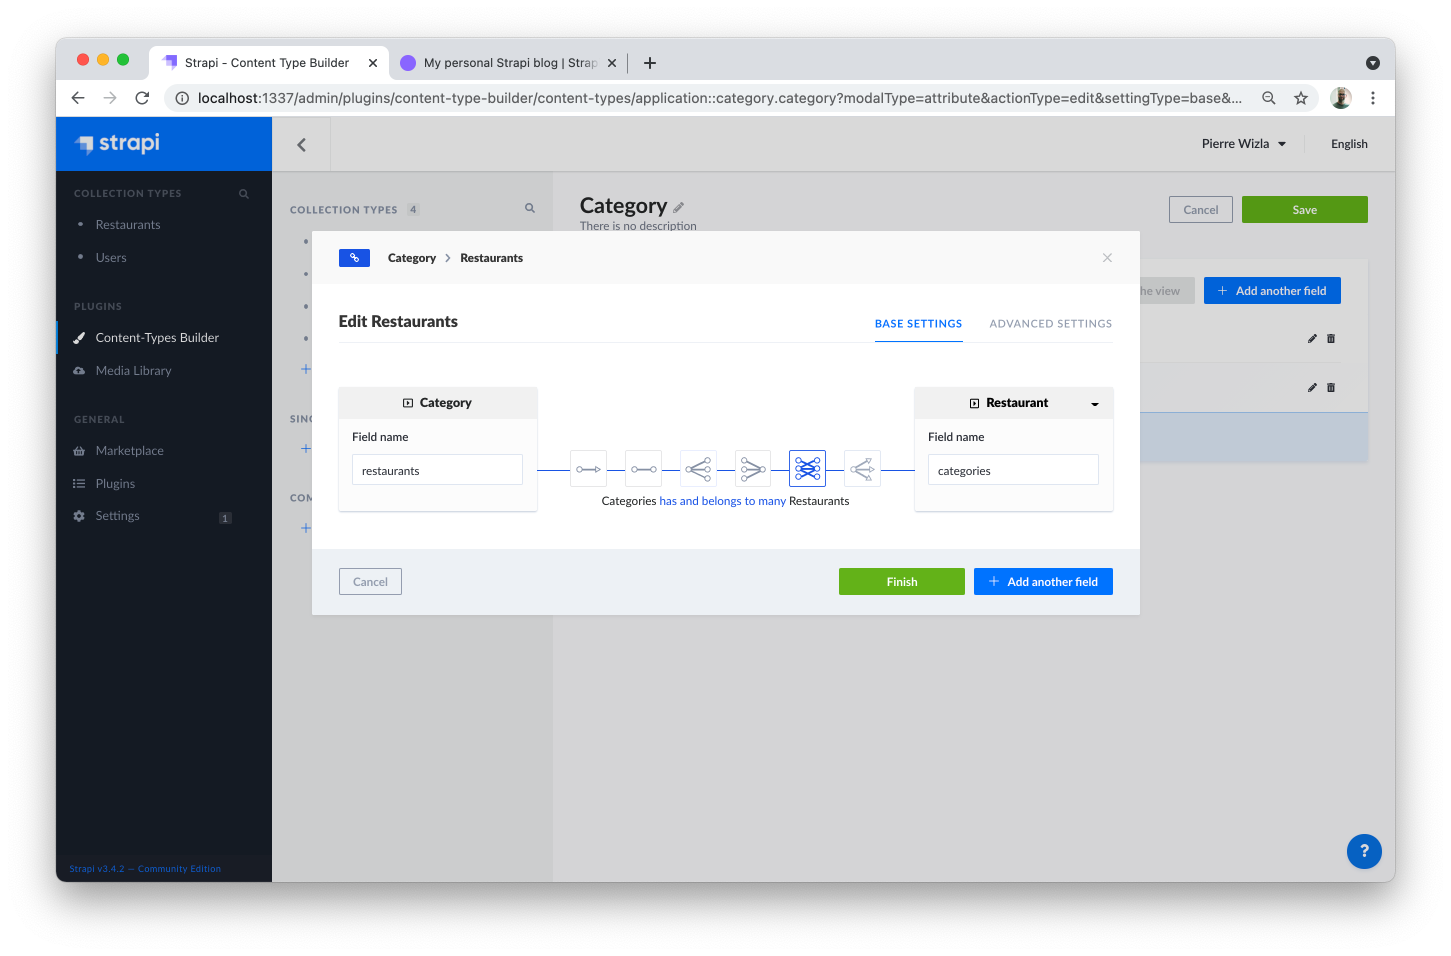
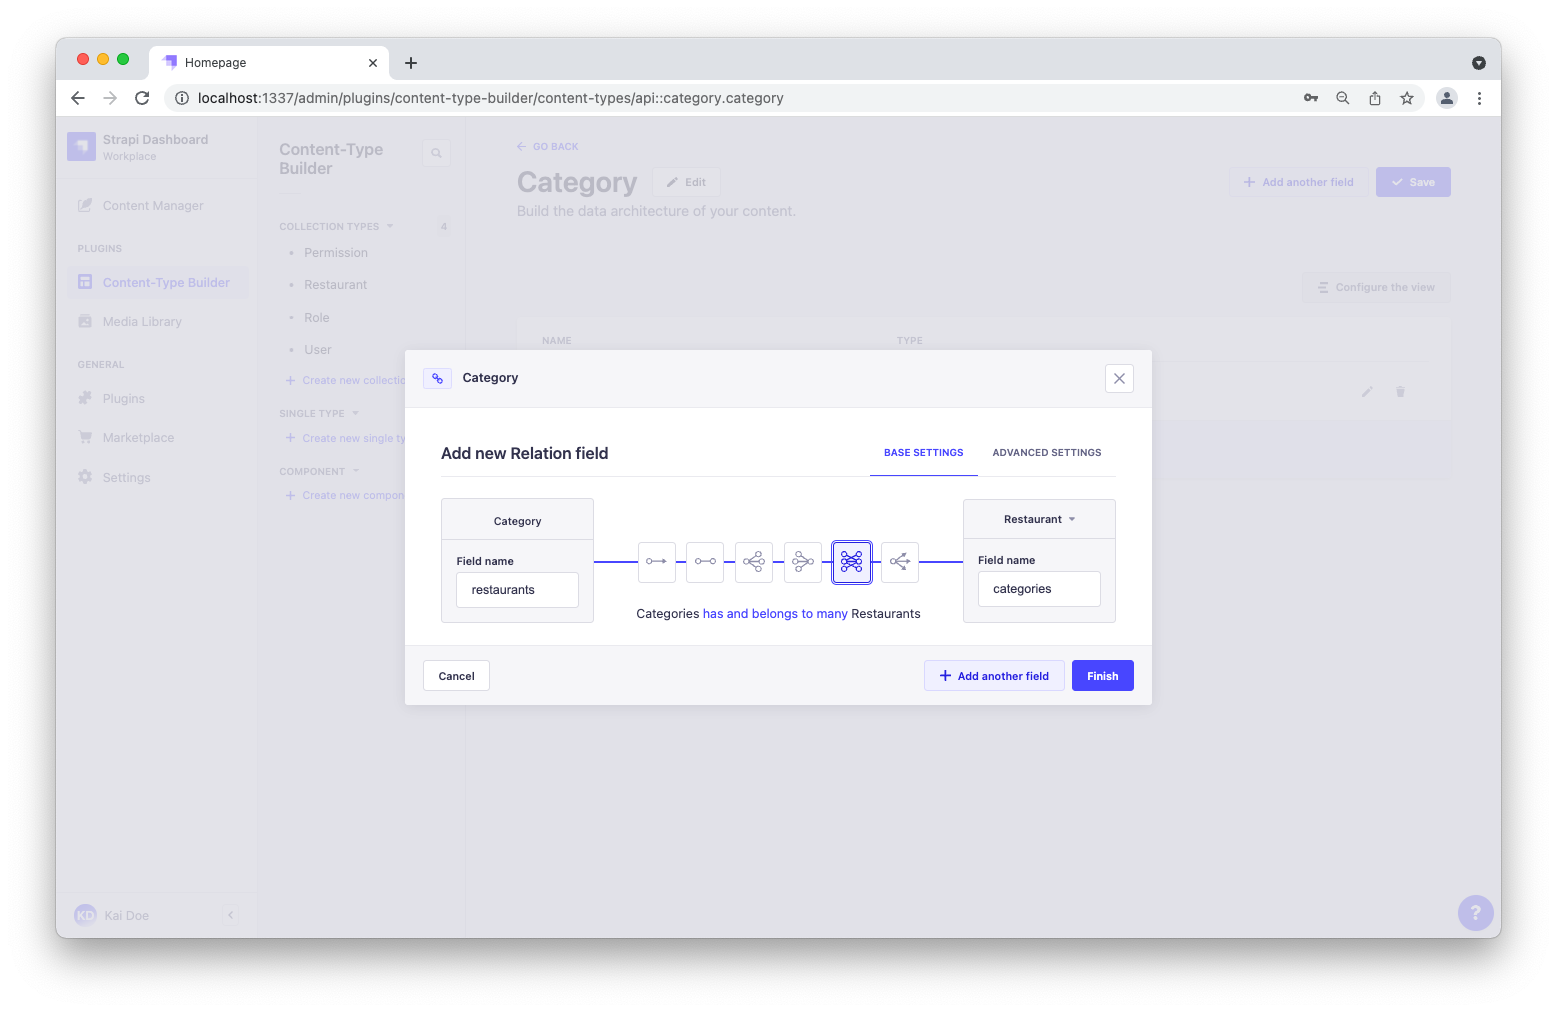
Update wording, screenshots and GIFs for Hands-on path

diff --git a/docs/developer-docs/latest/getting-started/quick-start.md b/docs/developer-docs/latest/getting-started/quick-start.md
@@ -157,18 +157,18 @@ Your restaurants directory will eventually include many restaurants, so we need 
 
 1. Go to [Plugins > Content-Type Builder](http://localhost:1337/admin/plugins/content-type-builder) in the main navigation.
 2. Click on **Create new collection type**.
-3. Type `restaurant` for the _Display name_, and click **Continue**.  
+3. Type `Restaurant` for the _Display name_, and click **Continue**.  
 4. Click the Text field.
 5. Type `name` in the _Name_ field.
 6. Switch to the _Advanced Settings_ tab, and check the **Required field** and the **Unique field** settings.
 7. Click on **Add another Field**.
-8. Choose the Rich Text field.
+8. Choose the Rich text field.
 9. Type `description` under the _Name_ field, then click **Finish**.
 10. Finally, click **Save** and wait for Strapi to restart.
 
 ![GIF: Create Restaurant collection type in Content-Type Builder](../assets/quick-start-guide/qsg-handson-restaurant.gif)
 
-Once Strapi has restarted, "Restaurants" is listed under Collection Types in the main navigation. Wow, you have just created your very first content type! It was so cool — let's create another one right now, just for pleasure.
+Once Strapi has restarted, "Restaurant" is listed under Content Manager > Collection Types in the main navigation. Wow, you have just created your very first content type! It was so cool — let's create another one right now, just for pleasure.
 
 #### Create a "Category" collection type
 
@@ -176,7 +176,7 @@ It would help getting a bit more organized if our restaurants directory had some
 
 1. Go to [Plugins > Content-Type Builder](http://localhost:1337/admin/plugins/content-type-builder) in the main navigation.
 2. Click on **Create new collection type**.
-3. Type `category` for the _Display name_, and click **Continue**.
+3. Type `Category` for the _Display name_, and click **Continue**.
 4. Click the Text field.
 5. Type `name` in the _Name_ field.
 6. Switch to the _Advanced Settings_ tab, and check the **Required field** and the **Unique field** settings.
@@ -194,33 +194,33 @@ It would help getting a bit more organized if our restaurants directory had some
 Now that we have created a basic data structure with 2 collection types, "Restaurant" and "Category", let's use them to actually add content by creating new entries.
 #### Create an entry for the "Restaurant" collection type
 
-1. Go to [Collection types > Restaurants](http://localhost:1337/admin/plugins/content-manager/collectionType/application::restaurant.restaurant) in the main navigation.
-2. Click on **Add New Restaurants**.
+1. Go to [Content Manager > Collection types > Restaurants](http://localhost:1337/admin/content-manager/collectionType/api::restaurant.restaurant) in the main navigation.
+2. Click on **Add new entry**.
 3. Type the name of your favorite local restaurant in the _Name_ field. Let's say it's `Biscotte Restaurant`.
 4. In the _Description_ field, write a few words about it. If you're lacking some inspiration, you can use `Welcome to Biscotte restaurant! Restaurant Biscotte offers a cuisine based on fresh, quality products, often local, organic when possible, and always produced by passionate producers.`
 5. Click **Save**.  
 
 ![Screenshot: Biscotte Restaurant in Content Manager](../assets/quick-start-guide/qsg-handson-part2-03-restaurant.png)
 
-The restaurant is now listed in the [Collection types > Restaurants](http://localhost:1337/admin/plugins/content-manager/collectionType/application::restaurant.restaurant) view.
+The restaurant is now listed in the [Collection types > Restaurants](http://localhost:1337/admin/content-manager/collectionType/api::restaurant.restaurant) view.
 
 #### Add Categories
 
-Let's go to [Collection types > Categories](http://localhost:1337/admin/plugins/content-manager/collectionType/application::category.category) and create 2 categories:
+Let's go to [Content Manager > Collection types > Categories](http://localhost:1337/admin/content-manager/collectionType/api::category.category) and create 2 categories:
 
-1. Click on **Add New Categories**.
+1. Click on **Add new entry**.
 2. Type `French Food` in the _Name_ field.
 4. Click **Save**.
-5. Go back to _Collection types > Categories_, then click again on **Add New Categories**.  
+5. Go back to _Collection types > Category_, then click again on **Add new entry**.  
 6. Type `Brunch` in the _Name_ field, then click **Save**.
 
 ![GIF: Add Categories](../assets/quick-start-guide/qsg-handson-categories.gif)
 
-The "French Food" and "Brunch" categories are now listed in the [Collection types > Categories](http://localhost:1337/admin/plugins/content-manager/collectionType/application::category.category) view.
+The "French Food" and "Brunch" categories are now listed in the [Collection types > Categories](http://localhost:1337/admin/content-manager/collectionType/api::category.category) view.
 
 #### Add a Category to a Restaurant
 
-Go to [Collection types > Restaurants](http://localhost:1337/admin/plugins/content-manager/collectionType/application::restaurant.restaurant) in the main navigation, and click on "Biscotte Restaurant".
+Go to [Content Manager > Collection types > Restaurant](http://localhost:1337/admin/content-manager/collectionType/api::restaurant.restaurant) in the main navigation, and click on "Biscotte Restaurant".
 
 In the right sidebar, in the **Categories** drop-down list, select "Brunch".  Click **Save**.
 
@@ -232,7 +232,7 @@ We have just added a restaurant and 2 categories. We now have enough content to 
 2. Under _Users & Permissions Plugin_, choose [Roles](http://localhost:1337/admin/settings/users-permissions/roles).
 3. Click the **Public** role.
 4. Scroll down under _Permissions_.
-5. In the _Application_ tab, find _Restaurant_.
+5. In the _Permissions_ tab, find _Restaurant_ and click on it.
 6. Click the checkboxes next to **find** and **findone**.
 7. Repeat with _Category_: click the checkboxes next to **find** and **findone**.
 8. Finally, click **Save**.
@@ -243,54 +243,50 @@ We have just added a restaurant and 2 categories. We now have enough content to 
 
 By default, any content you create is saved as a draft. Let's publish our categories and restaurant.
 
-First, navigate to [Collection types > Categories](http://localhost:1337/admin/plugins/content-manager/collectionType/application::category.category). From there:
+First, navigate to [Content Manager > Collection types > Category](http://localhost:1337/admin/plugins/content-manager/collectionType/application::category.category). From there:
 
 1. Click the "Brunch" entry.
 2. On the next screen, click **Publish**.
-3. In the _Please confirm_ window, click **Yes, publish**.  
+3. In the _Confirmation_ window, click **Yes, publish**.  
 
-Then, go back to the Categories list and repeat for the "French food" category.
+Then, go back to the Categories list and repeat for the "French Food" category.
 
-Finally, to publish your favorite restaurant, go to [Collection types > Restaurants](http://localhost:1337/admin/plugins/content-manager/collectionType/application::restaurant.restaurant), click the restaurant entry, and **Publish** it.
+Finally, to publish your favorite restaurant, go to [Collection types > Restaurants](http://localhost:1337/admin/content-manager/collectionType/api::restaurant.restaurant), click the restaurant entry, and **Publish** it.
 
 ![GIF: Publish content](../assets/quick-start-guide/qsg-handson-publish.gif)
 ### Step 5: Use the API
 
 OK dear gourmet, we have just finished creating our content and making it accessible through the API. You can give yourself a pat on the back — but you have yet to see the final result of your hard work.
 
-There you are: the list of restaurants is accessible at [http://localhost:1337/restaurants](http://localhost:1337/restaurants).
+There you are: the list of restaurants is accessible at [http://localhost:1337/api/restaurants](http://localhost:1337/api/restaurants).
 
 Try it now! The result should be similar to the example response below 👇.
 
 ::: details Click me to view an example of API response
 
 ```json
-[
-  {
-    "id":1,
-    "name":"Biscotte Restaurant",
-    "description":"Welcome to Biscotte restaurant! Restaurant Biscotte offers a cuisine based on fresh, quality products, often local, organic when possible, and always produced by passionate producers.",
-    "published_at":"2021-05-27T15:46:43.097Z",
-    "created_at":"2021-05-27T15:40:01.290Z",
-    "updated_at":"2021-05-27T15:46:43.110Z",
-    "categories":[
-      {
-        "id":1,
-        "name":"French Food",
-        "published_at":"2021-05-27T15:46:14.704Z",
-        "created_at":"2021-05-27T15:41:59.725Z",
-        "updated_at":"2021-05-27T15:46:14.725Z"
-      },
-      {
-        "id":2,
-        "name":"Brunch",
-        "published_at":"2021-05-27T15:46:02.015Z",
-        "created_at":"2021-05-27T15:42:29.201Z",
-        "updated_at":"2021-05-27T15:46:02.035Z"
+{
+  "data": [
+    {
+      "id": 1,
+      "attributes": {
+        "name": "Biscotte Restaurant",
+        "description": "Welcome to Biscotte restaurant! Restaurant Biscotte offers a cuisine based on fresh, quality products, often local, organic when possible, and always produced by passionate producers.",
+        "createdAt": "2021-11-18T13:34:53.885Z",
+        "updatedAt": "2021-11-18T13:59:05.035Z",
+        "publishedAt": "2021-11-18T13:59:05.033Z"
       }
-    ]
+    }
+  ],
+  "meta": {
+    "pagination": {
+      "page": 1,
+      "pageSize": 25,
+      "pageCount": 1,
+      "total": 1
+    }
   }
-]
+}
 ```
 
 :::
